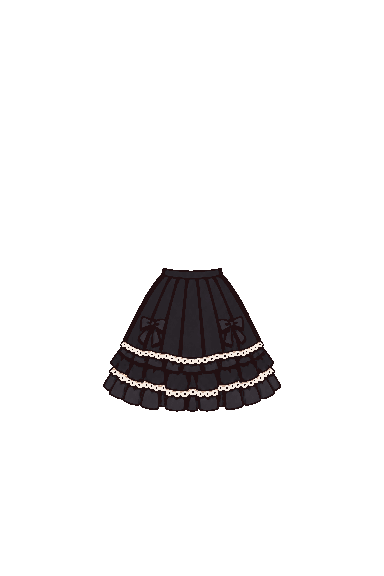
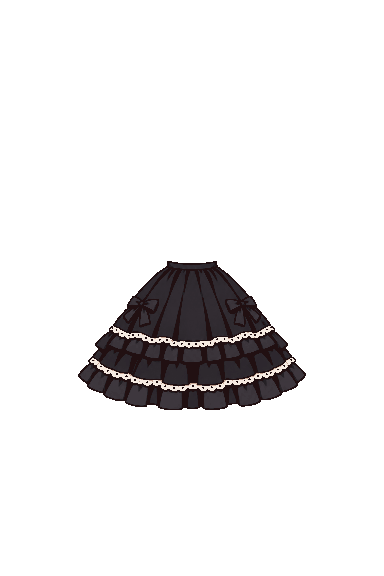
32番・33番のスカートをふんわり広げた形に

Changed region(s): [[0.1875, 0.4375, 0.8125, 0.7188]]

diff --git a/app/sw.js b/app/sw.js
@@ -1,6 +1,6 @@
 // オフライン対応：アプリ本体と絵を端末に保存して、電波がなくても開けるようにする
 // 版を上げるときは VERSION を変える（古い保存は消える）
-const VERSION = 'tabiquest-v0.10.209';
+const VERSION = 'tabiquest-v0.10.210';
 const CORE = [
   './', 'index.html', 'manifest.json', 'css/app.css', 'vendor/three.r128.min.js',
   'js/main.js', 'js/card.js', 'js/places.js', 'js/photo_places.js', 'js/plain_places.js', 'js/store.js', 'js/geo.js', 'js/conditions.js', 'js/ui.js', 'js/arrival.js', 'js/zukan.js', 'js/debug.js', 'js/mihon.js',

diff --git a/app/js/main.js b/app/js/main.js
@@ -50,7 +50,7 @@ import * as scramble from './scenes/scramble.js';
 import * as kamakura from './scenes/kamakura.js';
 import * as photo from './scenes/photo.js';
 
-export const VERSION = '0.10.209';
+export const VERSION = '0.10.210';
 engine.register('minatomirai', minatomirai.build);
 engine.register('chukagai', chukagai.build);
 engine.register('tokyotower', tokyotower.build);
